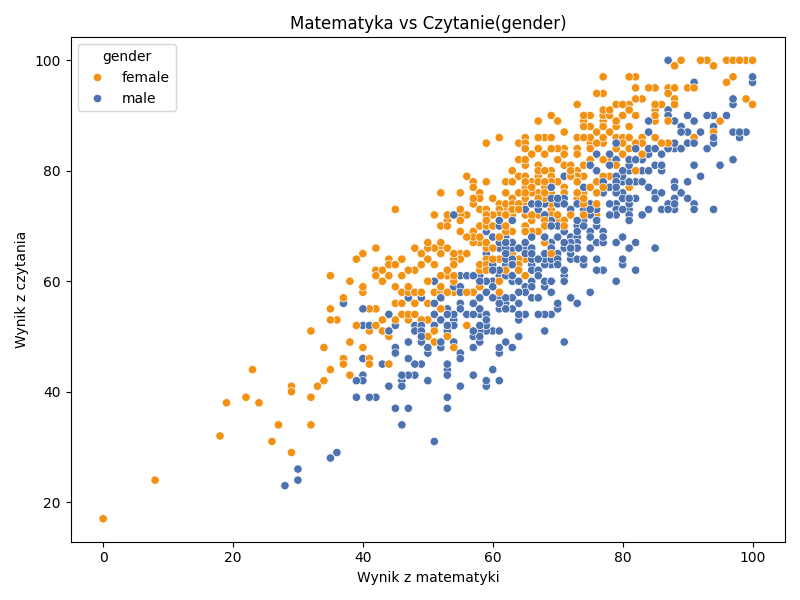
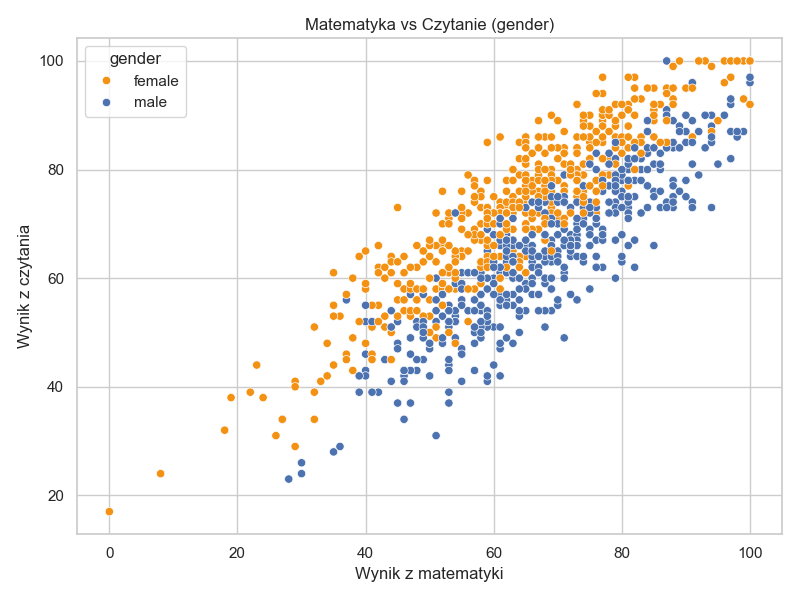
overall improvements

diff --git a/main.py b/main.py
@@ -4,6 +4,9 @@ import matplotlib.pyplot as plt
 import warnings
 warnings.filterwarnings("ignore")
 
+sns.set_style("whitegrid")
+sns.set_context("notebook")
+
 df = pd.read_csv("StudentsPerformanceKeggle.csv")
 
 df.columns = df.columns.str.replace(" ", "_").str.replace("/", "_")
@@ -17,16 +20,22 @@ plt.figure(figsize=(16, 5))
 plt.subplot(1, 3, 1)
 sns.histplot(df["math_score"], kde=True, color="#4C72B0", bins=20)
 plt.title("Matematyka")
+plt.xlabel("Wynik")
+plt.ylabel("Liczba uczniów")
 
 #czytanie
 plt.subplot(1, 3, 2)
 sns.histplot(df["reading_score"], kde=True, color="#F39112", bins=20)
 plt.title("Czytanie")
+plt.xlabel("Wynik")
+plt.ylabel("Liczba uczniów")
 
 #pisanie
 plt.subplot(1, 3, 3)
 sns.histplot(df["writing_score"], kde=True, color="#55A868", bins=20)
 plt.title("Pisanie")
+plt.xlabel("Wynik")
+plt.ylabel("Liczba uczniów")
 
 plt.tight_layout()
 plt.savefig("charts/01-dystrybucja-wynikow.png")
@@ -35,54 +44,51 @@ plt.show()
 
 plt.figure(figsize=(9, 5))
 
-#matma
-sns.kdeplot(df["math_score"], label="Matematyka", color="#4C72B0")
-#czytanie
-sns.kdeplot(df["reading_score"], label="Czytanie", color="#F39112")
-#pisanie
-sns.kdeplot(df["writing_score"], label="Pisanie", color="#55A868")
+sns.kdeplot(df["math_score"], label="Matematyka", color="#003385")
+sns.kdeplot(df["reading_score"], label="Czytanie", color="#AD6200")
+sns.kdeplot(df["writing_score"], label="Pisanie", color="#00851F")
 
 plt.legend()
 plt.title("Porownanie rozkładów wynikow")
+plt.xlabel("Wynik")
+plt.ylabel("Gęstość")
 plt.tight_layout()
 plt.savefig("charts/02-kde-porownanie.png")
 plt.show()
 
 
+plt.figure(figsize=(8, 6))
 
-plt.figure(figsize=(8,6))
-
-#Matematyka vs Czytanie (podzial wg płci)
 sns.scatterplot(
     data=df,
     x="math_score",
     y="reading_score",
     hue="gender",
     palette={
-            "male":"#4C72B0",
-            "female":"#F39112"
-            }
+        "male": "#4C72B0",
+        "female": "#F39112"
+    }
 )
 
-plt.title("Matematyka vs Czytanie(gender)")
+plt.title("Matematyka vs Czytanie (gender)")
 plt.xlabel("Wynik z matematyki")
 plt.ylabel("Wynik z czytania")
 plt.tight_layout()
 plt.savefig("charts/03-scatter-math-reading.png")
 plt.show()
 
-plt.figure(figsize=(16,6))
 
-#wynik przez płeć boxploty
-plt.subplot(1,3,1)
+plt.figure(figsize=(16, 6))
+
+plt.subplot(1, 3, 1)
 sns.boxplot(data=df, x="gender", y="math_score")
 plt.title("Matematyka")
 
-plt.subplot(1,3,2)
+plt.subplot(1, 3, 2)
 sns.boxplot(data=df, x="gender", y="reading_score")
 plt.title("Czytanie")
 
-plt.subplot(1,3,3)
+plt.subplot(1, 3, 3)
 sns.boxplot(data=df, x="gender", y="writing_score")
 plt.title("Pisanie")
 
@@ -91,15 +97,15 @@ plt.savefig("charts/04-boxplot-gender.png")
 plt.show()
 
 
-plt.figure(figsize=(7,5))
+plt.figure(figsize=(7, 5))
 
-#wpływ kursu przygotow.
 sns.barplot(
     data=df,
     x="test_preparation_course",
     y="math_score",
     palette="Set2"
 )
+
 plt.title("Wpływ kursu przygotowawczego na wynik z matematyki")
 plt.xlabel("Kurs przygotowawczy")
 plt.ylabel("Średni wynik")
@@ -108,12 +114,47 @@ plt.tight_layout()
 plt.savefig("charts/05-barplot-test-prep.png")
 plt.show()
 
-### LATER
-sns.heatmap(df[["math_score","reading_score","writing_score"]].corr(), annot=True)
+
+corr = df[["math_score", "reading_score", "writing_score"]].corr()
+
+plt.figure(figsize=(6, 5))
+sns.heatmap(
+    corr,
+    annot=True,
+    cmap="coolwarm",
+    fmt=".2f",
+    linewidths=0.5
+)
+
+plt.title("Korelacje między wynikami")
+plt.tight_layout()
+plt.savefig("charts/06-heatmap.png")
 plt.show()
 
+
+plt.figure(figsize=(7, 5))
 sns.violinplot(data=df, x="gender", y="math_score")
+plt.title("Rozkład wyników z matematyki (gender)")
+plt.tight_layout()
+plt.savefig("charts/07-violin.png")
 plt.show()
+
 
 sns.pairplot(df, hue="gender")
+plt.savefig("charts/08-pairplot.png")
+plt.show()
+
+
+sns.lmplot(
+    data=df,
+    x="math_score",
+    y="reading_score",
+    hue="gender",
+    height=6,
+    aspect=1.2
+)
+
+plt.title("matematyka vs czytanie(regresja)")
+plt.tight_layout()
+plt.savefig("charts/09-lmplot.png")
 plt.show()
